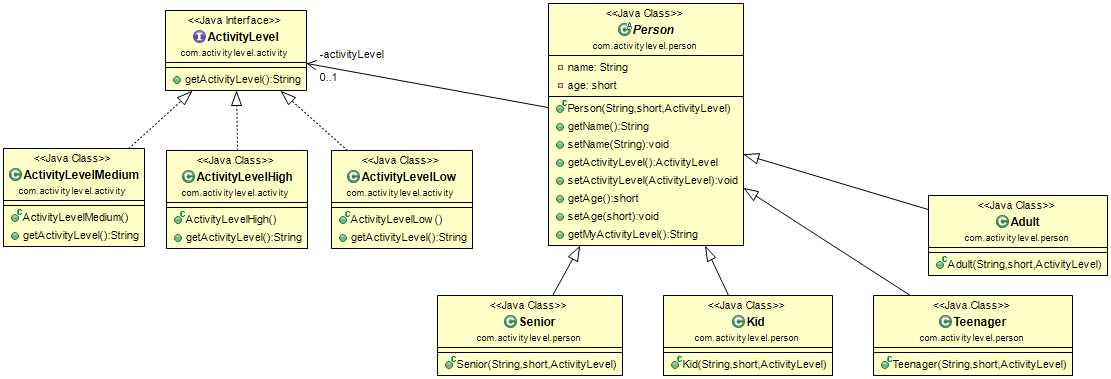
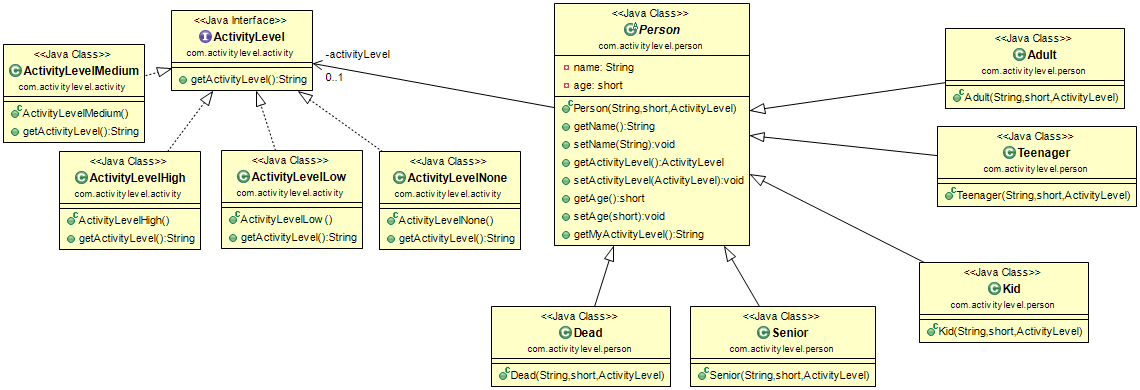
update

diff --git a/src/com/activitylevel/Main.java b/src/com/activitylevel/Main.java
@@ -6,7 +6,9 @@ import java.util.List;
 import com.activitylevel.activity.ActivityLevelHigh;
 import com.activitylevel.activity.ActivityLevelLow;
 import com.activitylevel.activity.ActivityLevelMedium;
+import com.activitylevel.activity.ActivityLevelNone;
 import com.activitylevel.person.Adult;
+import com.activitylevel.person.Dead;
 import com.activitylevel.person.Kid;
 import com.activitylevel.person.Person;
 import com.activitylevel.person.Senior;
@@ -16,20 +18,25 @@ public class Main {
 
 	public static void main(String[] args) {
 
-		Person kid = new Kid("Susan", (short) 5, new ActivityLevelHigh());
-		Person teen = new Teenager("Peter", (short) 15, new ActivityLevelHigh());
-		Person adult = new Adult("Kurt", (short) 35, new ActivityLevelMedium());
-		Person senior = new Senior("Lauren", (short) 75, new ActivityLevelLow());
+		Person susan = new Kid("Susan", (short) 5, new ActivityLevelHigh());
+		Person peter = new Teenager("Peter", (short) 15, new ActivityLevelHigh());
+		Person kurt = new Adult("Kurt", (short) 35, new ActivityLevelMedium());
+		Person lauren = new Senior("Lauren", (short) 75, new ActivityLevelLow());
+		Person brian = new Dead("Brian", (short) -1, new ActivityLevelNone());
 
 		List<Person> persons = new ArrayList<>();
-		persons.add(kid);
-		persons.add(teen);
-		persons.add(adult);
-		persons.add(senior);
+		persons.add(susan);
+		persons.add(peter);
+		persons.add(kurt);
+		persons.add(lauren);
+		persons.add(brian);
 
+		// We want to avoid many conditional if's etc.
 		for (Person p : persons) {
 			short age = p.getAge();
-			if (age < 13) {
+			if (age < 0) {
+				System.out.println(p.getName() + ": I am dead");
+			} else if (age < 13) {
 				System.out.println(p.getName() + ": I am very active");
 			} else if (age < 20) {
 				System.out.println(p.getName() + ": I am very active");

diff --git a/src/com/activitylevel/person/Dead.java b/src/com/activitylevel/person/Dead.java
@@ -1,0 +1,14 @@
+package com.activitylevel.person;
+
+import com.activitylevel.activity.ActivityLevel;
+
+public class Dead extends Person {
+
+	public Dead(String name, short age, ActivityLevel activityLevel) {
+		super(name, age, activityLevel);
+		// TODO Auto-generated constructor stub
+	}
+
+	
+
+}

diff --git a/src/com/activitylevel/activity/ActivityLevelNone.java b/src/com/activitylevel/activity/ActivityLevelNone.java
@@ -1,0 +1,10 @@
+package com.activitylevel.activity;
+
+public class ActivityLevelNone implements ActivityLevel {
+
+	@Override
+	public String getActivityLevel() {
+		return "I am dead";
+	}
+
+}
